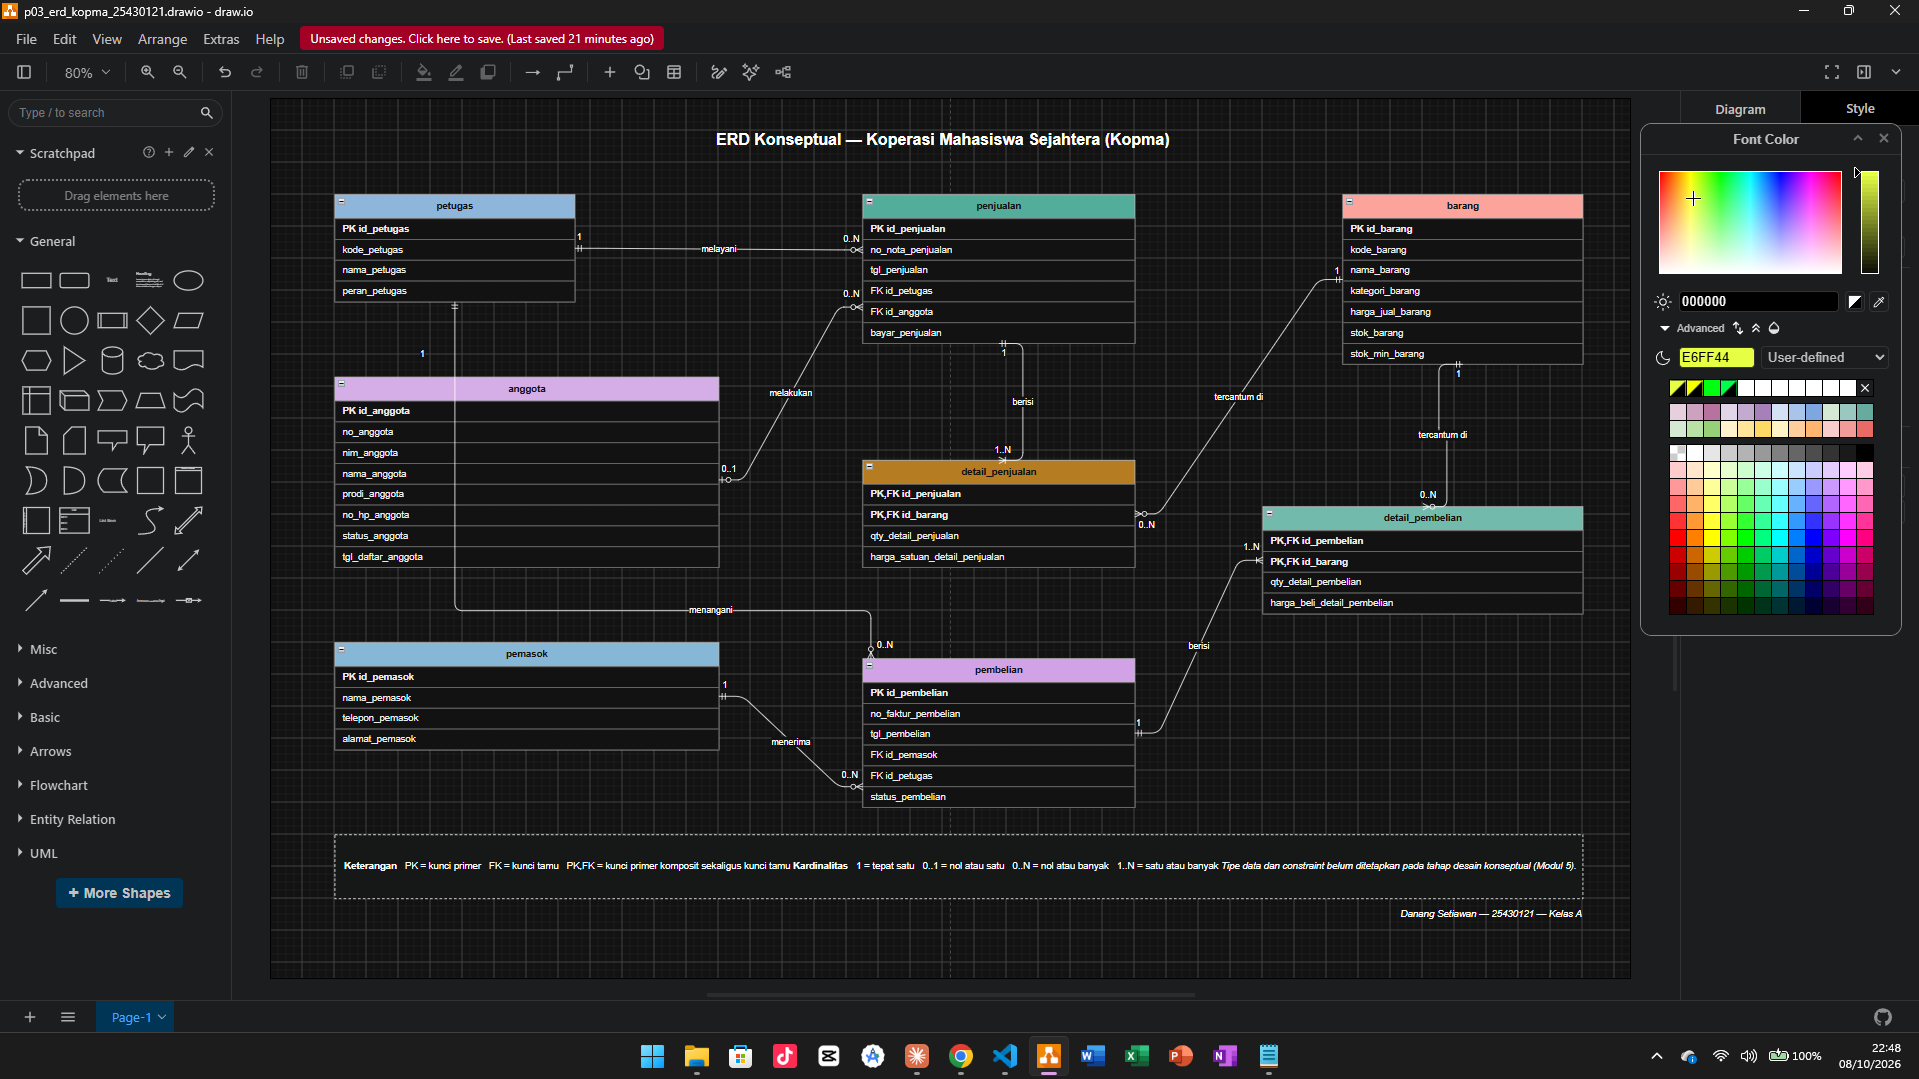
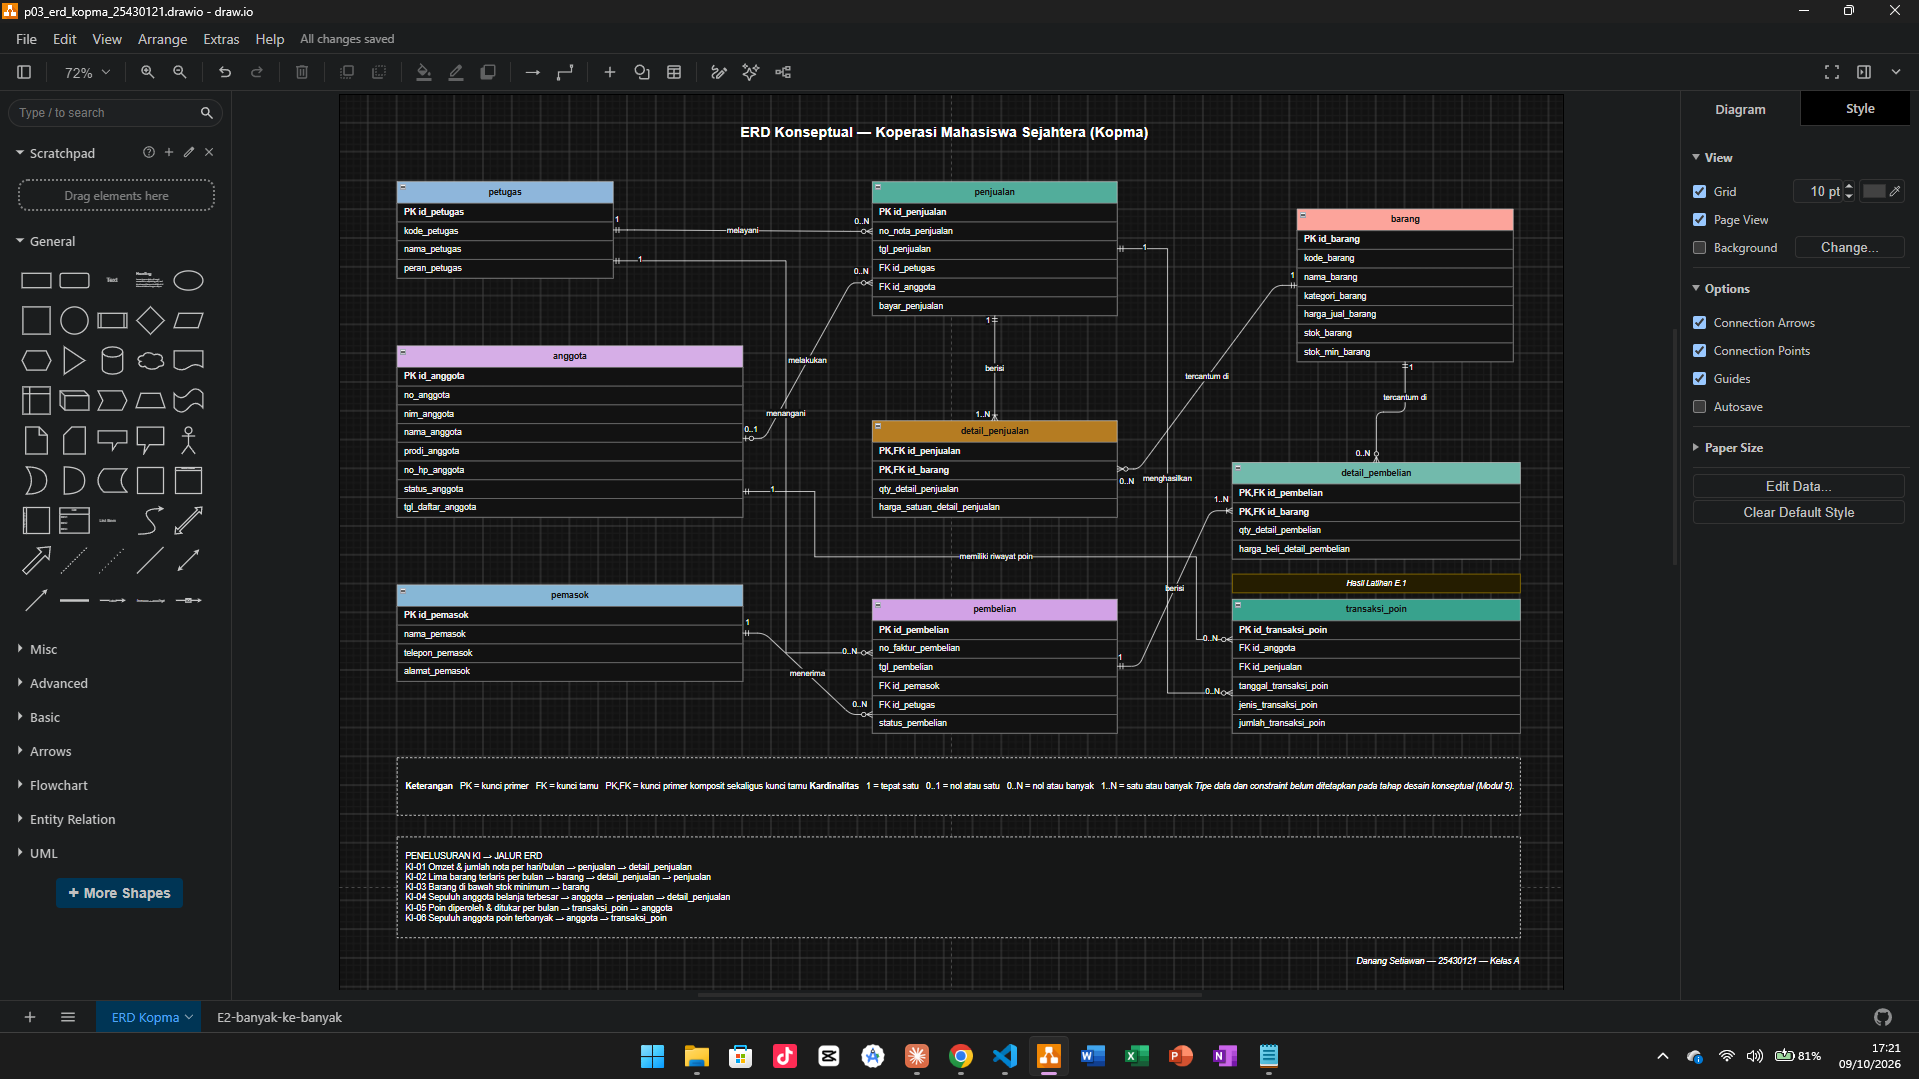
p03: latihan E1 poin loyalitas dan E2 relasi banyak-ke-banyak

diff --git a/laporan/p03_laporan_25430121.md b/laporan/p03_laporan_25430121.md
@@ -1,0 +1,88 @@
+# Laporan Praktikum Basis Data - Pertemuan 03
+
+- **Nama:** Danang Setiawan
+- **NIM:** 25430121
+- **Kelas:** A
+- **Tanggal:** 09 Oktober 2026
+- **Dosen:** Dedi Irawan, S.Kom., M.T.I.
+
+## 1. Tujuan Praktikum
+
+## 2. Ringkasan Dasar Teori
+
+## 3. Hasil Langkah Percobaan
+
+### D.1 Dari entitas kandidat ke entitas
+### D.2 Menentukan relasi dan kardinalitas
+
+Untuk setiap pasangan entitas yang berhubungan, saya menulis kalimat relasi dengan kata kerja, lalu menjawab "minimal berapa?" dan "maksimal berapa?" dari kedua arah. Setiap kardinalitas ditelusuri ke aturan bisnis yang mendasarinya.
+
+| Relasi | Sisi kiri | Sisi kanan | Dasar |
+|---|---|---|---|
+| petugas melayani penjualan | tepat satu petugas | nol atau banyak penjualan | wawancara kasir |
+| anggota melakukan penjualan | nol atau satu anggota | nol atau banyak penjualan | AB-02 |
+| penjualan berisi detail_penjualan | tepat satu penjualan | satu atau banyak detail | AB-01 |
+| barang tercantum di detail_penjualan | tepat satu barang | nol atau banyak detail | AB-04 |
+| pemasok menerima pembelian | tepat satu pemasok | nol atau banyak pembelian | AB-06 |
+| pembelian berisi detail_pembelian | tepat satu pembelian | satu atau banyak detail | faktur pemasok |
+| barang tercantum di detail_pembelian | tepat satu barang | nol atau banyak detail | faktur pemasok |
+| petugas menangani pembelian | tepat satu petugas | nol atau banyak pembelian | AB-12 |
+
+**Catatan tambahan di luar Tabel 3.2 buku:**
+
+Dua baris terakhir tidak tercantum pada Tabel 3.2 buku. Relasi `barang tercantum di detail_pembelian` saya tambahkan karena relasi tersebut tampak pada Gambar 3.2 dan diperlukan agar entitas `detail_pembelian` memiliki rujukan ke barang yang dibeli. Relasi `petugas menangani pembelian` merupakan hasil Titik Analisis 3 dan didasarkan pada AB-12 yang saya tambahkan.
+
+### D.3 Menggambar ERD
+### D.4 Memvalidasi ERD terhadap kebutuhan informasi
+
+| Kode | Kebutuhan informasi | Jalur di ERD |
+|---|---|---|
+| KI-01 | Omzet dan jumlah nota per hari dan per bulan | penjualan → detail_penjualan |
+| KI-02 | Lima barang terlaris per bulan berdasarkan qty | barang → detail_penjualan → penjualan |
+| KI-03 | Barang dengan stok di bawah batas minimum | barang |
+| KI-04 | Sepuluh anggota dengan belanja terbesar per bulan | anggota → penjualan → detail_penjualan |
+| KI-05 | Jumlah poin diperoleh dan ditukar per bulan | Belum tersedia — ditambahkan pada Latihan E.1 Modul 3 |
+| KI-06 | Sepuluh anggota dengan perolehan poin terbanyak per bulan | Belum tersedia — ditambahkan pada Latihan E.1 Modul 3 |
+
+## 4. Jawaban Titik Analisis
+
+### Titik Analisis 1 — Kunci primer dan kunci alternatif
+
+Saya memilih `id_anggota` sebagai kunci primer karena merupakan identitas internal yang tetap dan tidak bergantung pada data bisnis anggota. `no_anggota` dan `nim_anggota` tetap disimpan sebagai kunci alternatif dengan constraint `UNIQUE`, sehingga pencarian anggota melalui nomor anggota atau NIM tetap dapat dilakukan tanpa menjadikan data tersebut sebagai kunci primer.
+
+Jika NIM dijadikan kunci primer, salah satu risikonya adalah ketika NIM berubah, perubahan tersebut dapat merambat ke kunci tamu pada tabel lain yang mengacu ke anggota sehingga berisiko menimbulkan inkonsistensi data.
+
+### Titik Analisis 2 — Kardinalitas minimal satu detail
+
+**Bagian A**
+
+Relasi `Penjualan` terhadap `Detail penjualan` pada kasus Kopma bernilai `1..N` karena **AB-01** menyatakan bahwa setiap nota memiliki nomor unik dan minimal satu baris barang. Artinya, sebuah nota tanpa barang tidak dianggap sebagai transaksi penjualan yang lengkap. AB-02 hanya mengatur batas lain, yaitu penjualan untuk anggota aktif dan diskon 5%, sehingga tidak menjadi dasar untuk nilai minimum detail.
+
+**Bagian B**
+
+Aturan minimal satu detail tidak dapat dijaga hanya dengan struktur tabel. Foreign key pada `Detail penjualan` hanya memastikan bahwa detail mengacu pada `Penjualan` yang valid, tetapi tidak memaksa setiap `Penjualan` memiliki minimal satu detail. Pelanggaran dapat terjadi ketika data `Penjualan` sudah dibuat tetapi baris `Detail penjualan` belum sempat dibuat, lalu proses berhenti. Karena itu, aturan minimal satu detail perlu dijaga melalui transaksi atau logika aplikasi.
+
+### Titik Analisis 3 — Petugas yang menerima barang dari pemasok
+
+ERD awal belum dapat menunjukkan petugas gudang yang menerima barang dari pemasok karena `Pembelian` baru memiliki hubungan dengan `Pemasok`. Belum ada hubungan yang mencatat petugas yang menangani penerimaan tersebut.
+
+Saya menambahkan relasi **petugas menangani pembelian** dengan kardinalitas **tepat satu petugas** untuk setiap `Pembelian` dan **nol atau banyak pembelian** untuk setiap `Petugas`. Dengan relasi ini, setiap transaksi penerimaan dapat ditelusuri kepada petugas yang menanganinya.
+
+Keputusan tersebut perlu dicatat sebagai aturan bisnis baru karena informasi petugas yang menangani penerimaan merupakan kebutuhan bisnis, bukan hanya kebutuhan teknis ERD. Aturannya adalah **AB-12: Setiap penerimaan barang dari pemasok harus mencatat petugas gudang yang menerima barang.**
+
+## 5. Hasil Latihan dan Modifikasi
+
+### E.1 Poin loyalitas pada ERD
+### E.2 Relasi banyak-ke-banyak langsung
+
+## 6. Tugas Mandiri: Milestone Proyek 3
+
+## 7. Pembahasan dan Kendala
+
+## 8. Kesimpulan
+
+## 9. Pernyataan Penggunaan AI
+
+## 10. Bukti Git
+
+## Checklist
